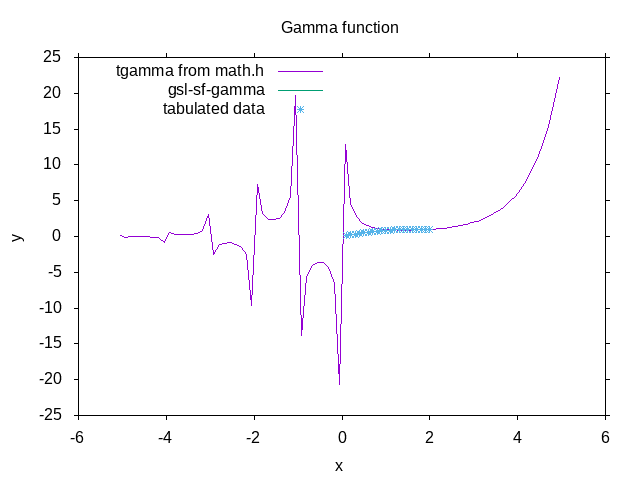
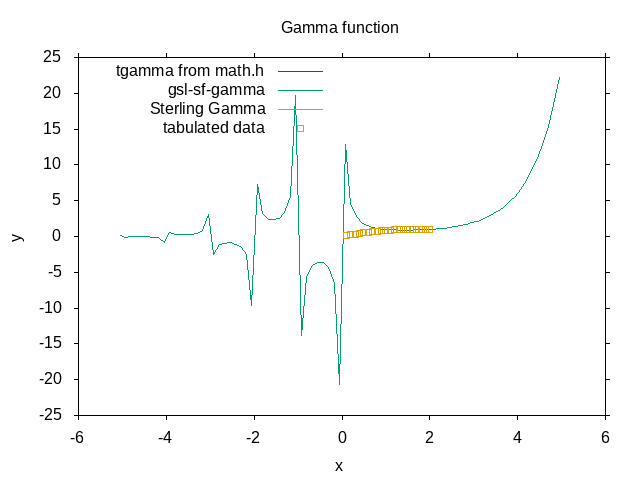
Plots Done

Changed region(s): [[0.2188, 0.2188, 0.4688, 0.2812], [0.5312, 0.4688, 0.6875, 0.5]]

diff --git a/Exercise/plot/main.c b/Exercise/plot/main.c
@@ -3,7 +3,8 @@
 #include<gsl/gsl_sf_erf.h>
 
 double Erf(double);
-int gam(int);
+double Gamma(double);
+
 int main(){
 	double xmin=-2,xmax=2;
 	for(double x=xmin;x<=xmax;x+=1.0/8){
@@ -12,7 +13,7 @@ int main(){
 	double ymin=-5.05,ymax=5;
 	FILE* data2=fopen("data2.txt","w");
 	for(double y=ymin;y<=ymax;y+=1.0/8){
-                fprintf(data2,"%10g %10g %10g %10d \n",y,tgamma(y),gsl_sf_gamma(y));
+                fprintf(data2,"%10g %10g %10g %10f \n",y,tgamma(y),gsl_sf_gamma(y),Gamma(y));
                 }
 
 return 0;
